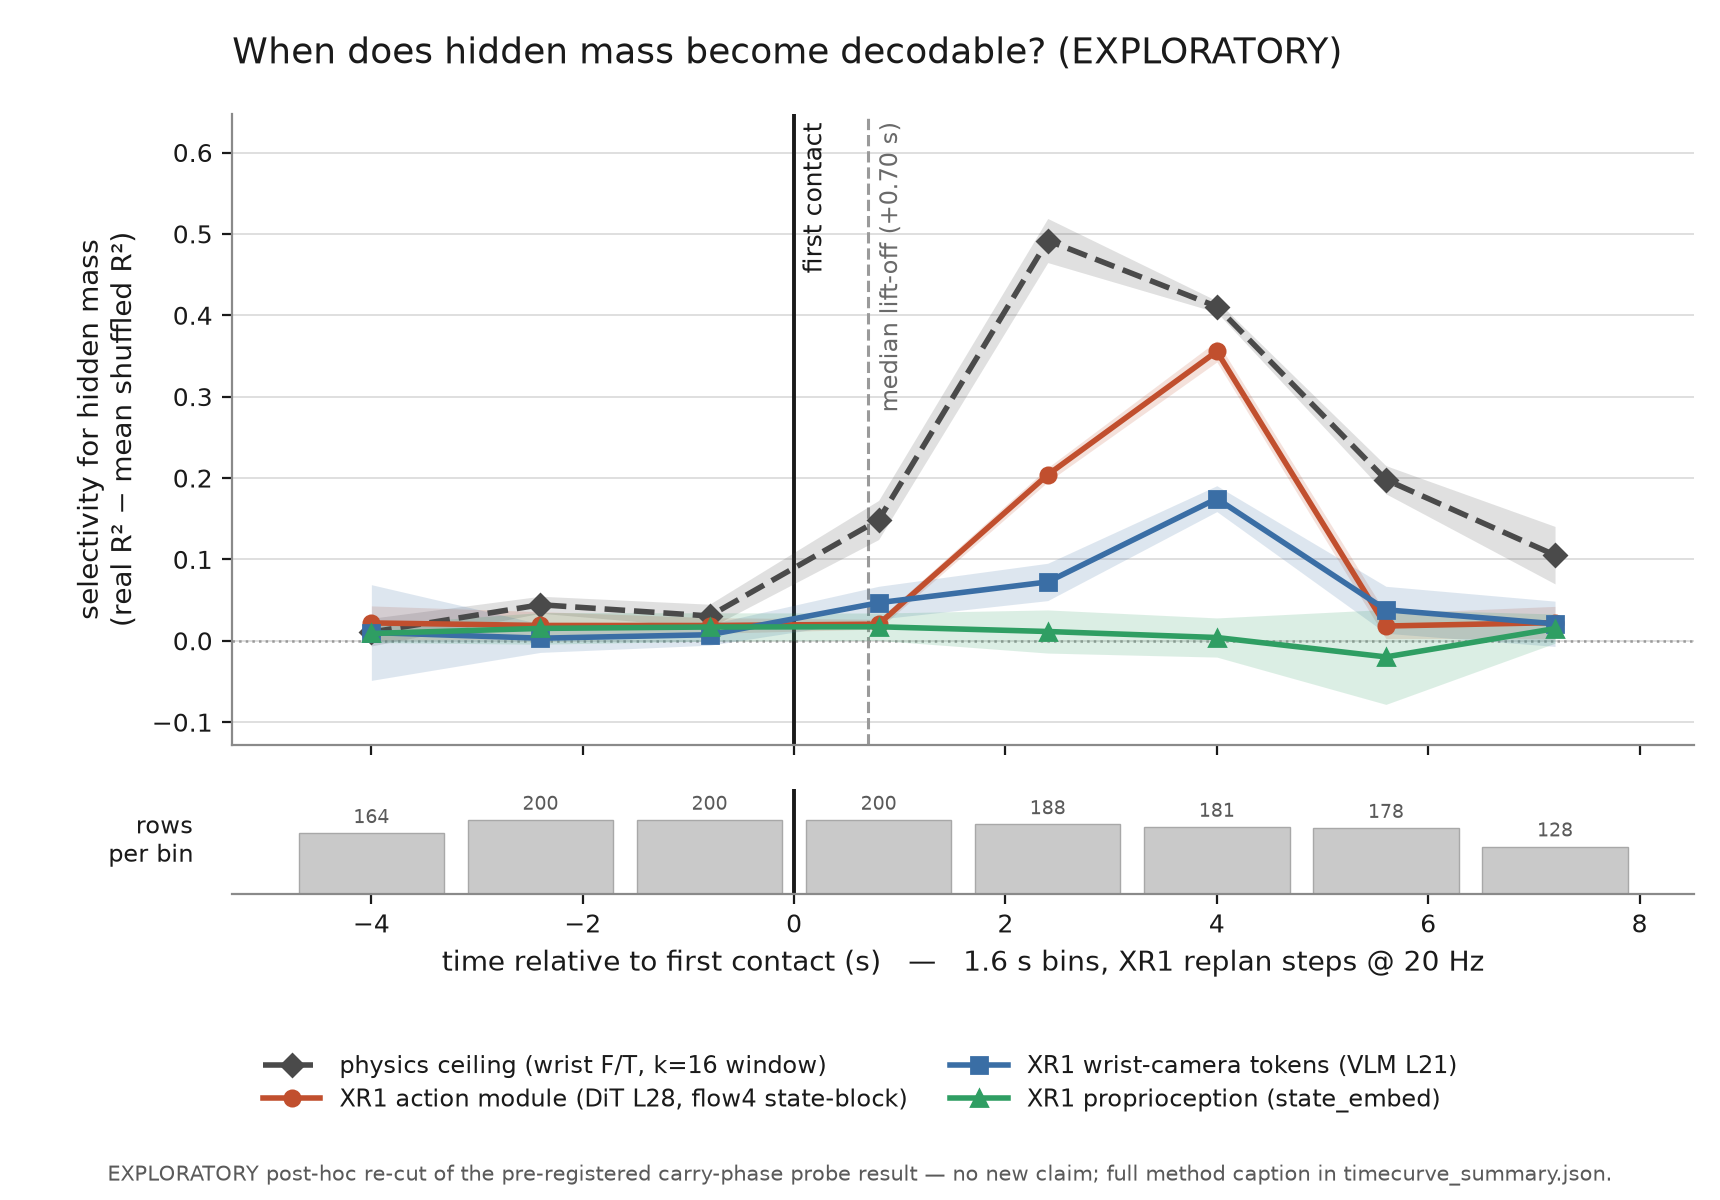
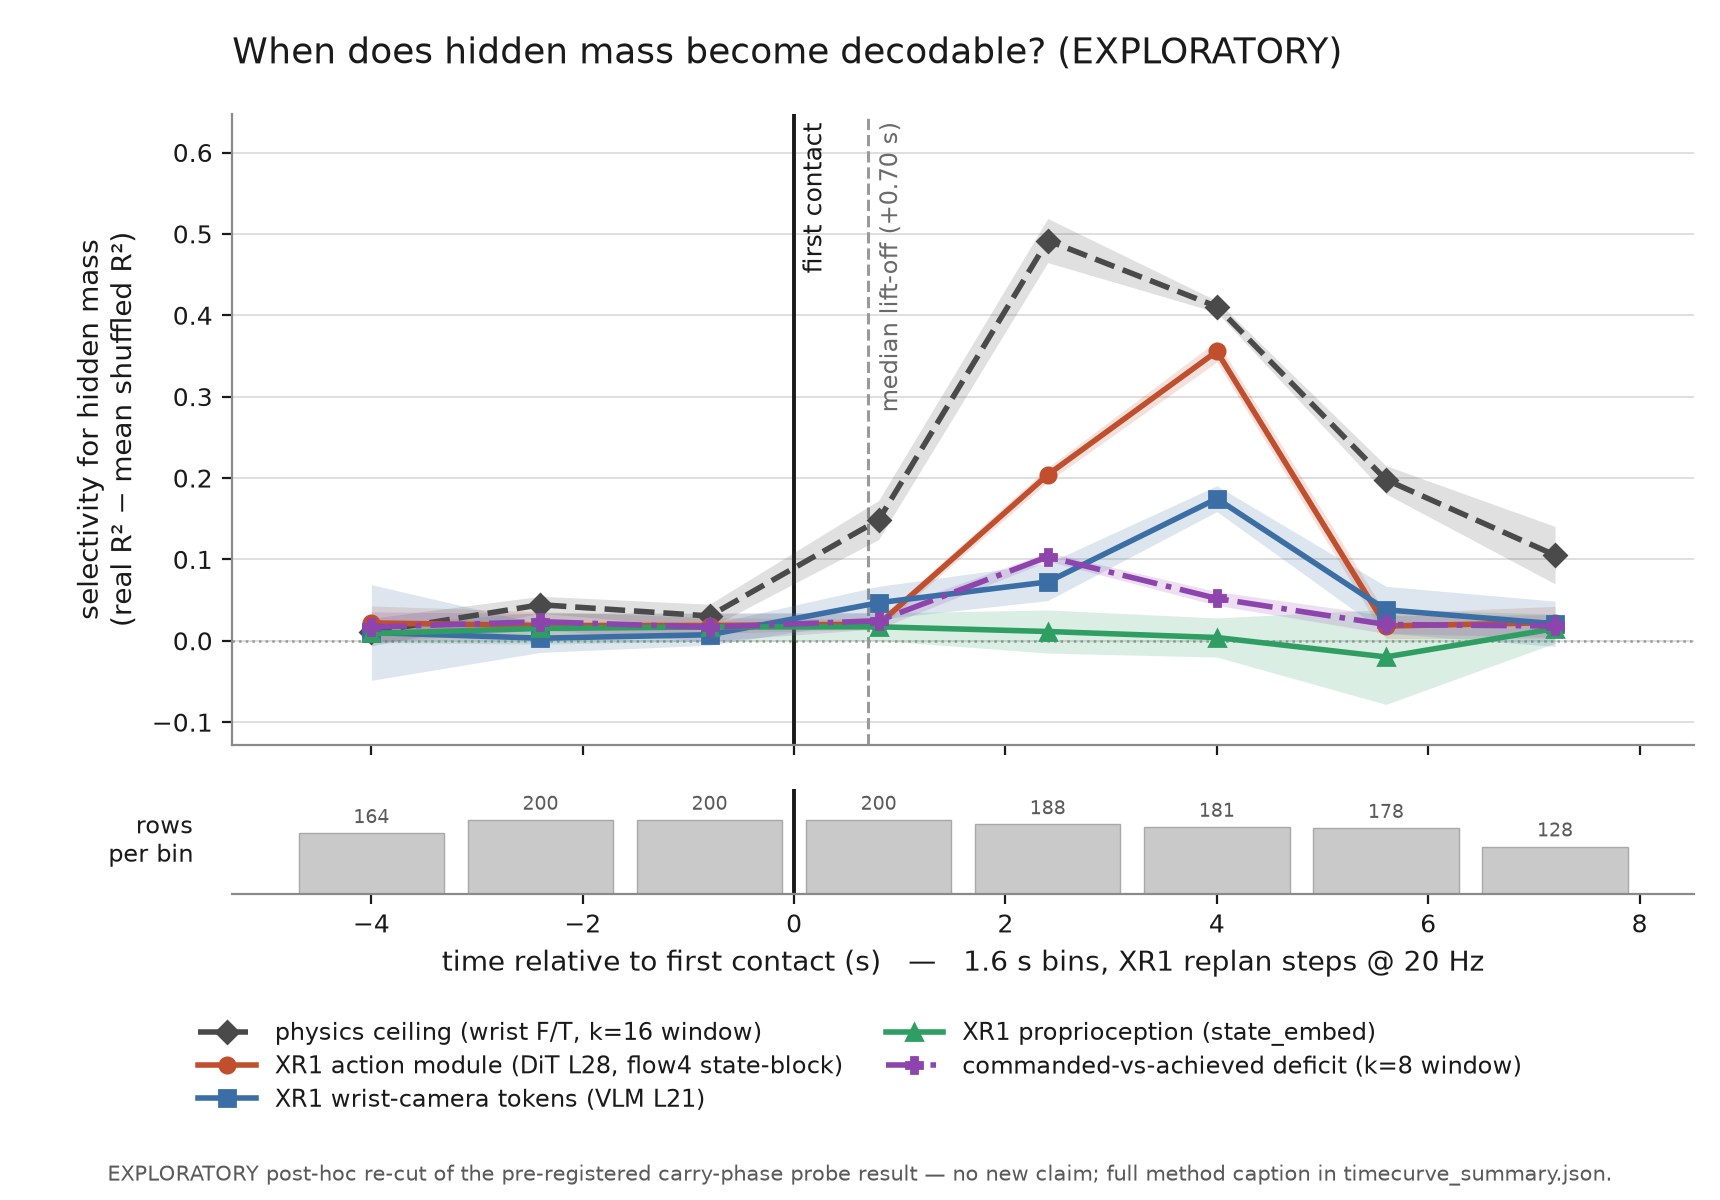
EXPLORATORY time curve: add commanded-vs-achieved deficit as a fifth line
Adds the deficit certificate's exact feature builder
(certificates.build_features("deficit", ds): commanded_delta[6] +
achieved_eef_delta[6], trailing window k=8 stride 1, imported not
re-implemented) as a fifth, strictly comparable line on the existing
contact-relative mass-decodability curve -- same bins, rows, folds and
shuffle protocol as the other four. Z-scored per cell like the physics
line, since it too mixes units (normalized OSC action vs metres).

The deficit certificate is aggregate-informative but FAILs per-step
(carry R^2 0.062); the new line answers whether that signal is
instantaneous or only visible under averaging. It spikes in the same
[+1.6, +3.2) s post-contact bin as the physics ceiling and DiT line
(real R^2 0.077, rank 0.72), just at lower amplitude -- not flat.

Headline unchanged: peak selectivity 0.227 (R^2 0.189) at DiT L28,
below the 0.3 certificate bar. Report addendum in
.superpowers/sdd/xr1-timecurve-report.md (untracked doc, per repo
convention).

Claude-Session: https://claude.ai/code/session_01CwbCcenew2BZcxLzuYpiqb

diff --git a/eval_robocasa365/mass_variation/analysis/time_curve.py b/eval_robocasa365/mass_variation/analysis/time_curve.py
@@ -24,7 +24,7 @@ shuffled-std band. Selectivity (not raw R²) is the y axis because the
 shuffled floor itself moves with bin size and with which seed groups land
 in which fold.
 
-Lines (4)
+Lines (5)
 ---------
 1. ``physics ceiling`` -- ridge on the raw wrist F/T window: exactly the
    ``raw_ft`` certificate's design matrix (``certificates.build_features``:
@@ -36,13 +36,29 @@ Lines (4)
 2. ``XR1 action module (DiT L28, flow4 state-block)`` -- the probe peak site.
 3. ``XR1 wrist-camera tokens (VLM L21)`` -- the vision site (the VLM peak).
 4. ``XR1 proprioception (state_embed)`` -- the null site.
+5. ``commanded-vs-achieved deficit`` -- ridge on exactly the ``deficit``
+   certificate's design matrix (``certificates.build_features("deficit", d)``:
+   ``commanded_delta[6]`` + ``achieved_eef_delta[6]``, trailing window k=8,
+   stride 1, never crossing an episode boundary; the identical feature
+   builder imported from ``certificates.py``, not re-implemented). This
+   channel is the one the ``deficit`` certificate scores on the ``carry``
+   mask: aggregate-informative (episode-mean commanded-up effort rises +23%
+   for XR1 / +87% for pi0.5 from lightest to heaviest carton) but weak
+   per-step (certificate R^2 0.062, FAIL). Its time profile was unknown
+   before this curve: does it spike at contact like the physics ceiling, or
+   stay flat -- i.e. is the load signature instantaneous or only visible
+   under averaging? Added as a fifth, directly comparable line (same bins,
+   rows, folds, shuffle protocol as the other four) to answer that
+   descriptively; both outcomes are reportable and neither would change the
+   study headline.
 
-All four are scored on the SAME rows (the captured replan steps inside a
+All five are scored on the SAME rows (the captured replan steps inside a
 bin) with the SAME GroupKFold(5) fold partition (computed once per bin from
 the seed groups), so the lines are strictly comparable. The one deliberate
 preprocessing difference is the one each corpus already carries in the
-study: the physics features are globally z-scored inside the cell (mixed
-physical units -- Newtons, N·m, radians), exactly as
+study: the physics and deficit features are globally z-scored inside the
+cell (mixed physical units -- Newtons, N·m, radians for physics; normalized
+action units vs metres for deficit), exactly as
 ``certificates.certificate_cell`` does, while activations are not
 (homogeneous units, matching ``run_probes_xr1``).
 
@@ -56,7 +72,7 @@ A bin is RETAINED only if it holds >= ``MIN_ROWS`` (120) rows AND
 >= ``MIN_EPISODE_GROUPS`` (15) distinct episodes; otherwise it is dropped
 and recorded as dropped (``retained=False`` with a ``drop_reason``) rather
 than scored on a handful of episodes. The rule was fixed before any curve
-was computed and is applied identically to all four lines.
+was computed and is applied identically to all five lines.
 
 Outputs: ``<out-dir>/timecurve.parquet`` (one row per site x bin, including
 dropped bins), ``<out-dir>/fig_mass_vs_time.png``,
@@ -116,18 +132,25 @@ HEADLINE_NOT_UPGRADED = (
     "noisier estimate on ~5x fewer rows, not a better result."
 )
 
-# (label, block, layer, position) -- block "raw_ft" is the physics reference.
+# (label, block, layer, position) -- block "raw_ft" is the physics reference,
+# block "deficit" is the commanded-vs-achieved deficit reference (also a
+# sensor/action-side channel, not a model site).
 SITES = (
     ("physics ceiling (wrist F/T, k=16 window)", "raw_ft", -1, "ee_force+ee_torque+derived"),
     ("XR1 action module (DiT L28, flow4 state-block)", "dit", 28, "flow4:state_tokens_mean"),
     ("XR1 wrist-camera tokens (VLM L21)", "vlm", 21,
      "image_tokens_mean:video.robot0_eye_in_hand"),
     ("XR1 proprioception (state_embed)", "state_embed", -1, "state_tokens_flat"),
+    ("commanded-vs-achieved deficit (k=8 window)", "deficit", -1,
+     "commanded_delta+achieved_eef_delta"),
 )
 
 # CVD-checked on a light surface; per-series markers are the redundant
 # encoding. The physics reference is neutral grey + dashed so it never reads
-# as one of the three model sites.
+# as one of the three model sites. The four original entries are UNCHANGED
+# from the published version; the deficit line below is the one addition
+# (distinct purple + filled-plus marker + dash-dot, so it never reads as
+# any of the four existing lines).
 SITE_STYLE = {
     "physics ceiling (wrist F/T, k=16 window)":
         {"color": "#4a4a4a", "marker": "D", "ls": "--"},
@@ -137,6 +160,8 @@ SITE_STYLE = {
         {"color": "#3a6ea5", "marker": "s", "ls": "-"},
     "XR1 proprioception (state_embed)":
         {"color": "#2f9e63", "marker": "^", "ls": "-"},
+    "commanded-vs-achieved deficit (k=8 window)":
+        {"color": "#8e44ad", "marker": "P", "ls": "-."},
 }
 
 DEFAULT_ACTS_ROOT = "output/mass_variation/activations/xr1"
@@ -236,16 +261,20 @@ def bin_drop_reason(n: int, n_episodes: int,
 def site_matrices(ds: dict, acts: dict, idx: np.ndarray) -> dict[str, np.ndarray]:
     """``{site label: X (M, D)}`` at the captured (joined) rows.
 
-    The physics matrix is built on the FULL per-step corpus first (its k=16
-    trailing window must see the un-subsampled history, exactly as the
-    ``raw_ft`` certificate does) and only then restricted to the captured
-    rows -- the plan's "same rows" requirement, without corrupting the
-    window."""
+    The physics and deficit matrices are built on the FULL per-step corpus
+    first (their trailing windows -- k=16 and k=8 respectively -- must see
+    the un-subsampled history, exactly as ``certificates.build_features``
+    does) and only then restricted to the captured rows -- the plan's "same
+    rows" requirement, without corrupting the window. Both are the identical
+    ``certificates.build_features`` builder, imported not re-implemented."""
     raw_ft_full = certificates.build_features("raw_ft", ds)
+    deficit_full = certificates.build_features("deficit", ds)
     out: dict[str, np.ndarray] = {}
     for label, block, layer, position in SITES:
         if block == "raw_ft":
             out[label] = raw_ft_full[idx].astype(np.float32)
+        elif block == "deficit":
+            out[label] = deficit_full[idx].astype(np.float32)
         elif block == "dit":
             li = list(acts["dit_layer_ids"]).index(layer)
             fi, bi = divmod(_dit_position_index(position), 2)
@@ -276,7 +305,7 @@ def _dit_position_index(position: str) -> int:
 
 def _zscore(X: np.ndarray) -> np.ndarray:
     """``certificates.certificate_cell``'s label-free feature standardisation
-    (mixed physical units); applied to the physics line only."""
+    (mixed physical units); applied to the physics and deficit lines only."""
     X = np.asarray(X, dtype=np.float32)
     sd = X.std(axis=0)
     return (X - X.mean(axis=0)) / np.where(sd == 0, 1.0, sd)
@@ -292,7 +321,7 @@ def run_time_curve(ds: dict, acts: dict, idx: np.ndarray, bins, seed: int = SEED
     """One probe cell per (site, bin) on the captured rows.
 
     Fold partition, shuffle groups and row set are computed ONCE per bin and
-    shared by all four sites, so the four curves differ only in features."""
+    shared by all five sites, so the five curves differ only in features."""
     episode_id = np.asarray(acts["episode_id"])
     y = np.asarray(ds["mass_log_c"], dtype=np.float64)[idx]
     cv_groups = np.asarray(ds["seed"])[idx]
@@ -344,7 +373,7 @@ def run_time_curve(ds: dict, acts: dict, idx: np.ndarray, bins, seed: int = SEED
                 }
             else:
                 X = X_by_site[label][sel]
-                if block == "raw_ft":
+                if block in ("raw_ft", "deficit"):
                     X = _zscore(X)
                 factors = probe_core._fold_factors(X, cv_groups[sel], splits=splits)
                 cell = _cell_from_factors(
@@ -549,7 +578,7 @@ def precontact_reading(df: pd.DataFrame) -> str:
         f"{float(worst['selectivity']):+.3f} "
         f"({worst['site']}, [{float(worst['bin_lo_s']):+.1f},"
         f"{float(worst['bin_hi_s']):+.1f}) s), but the largest REAL pooled "
-        f"held-out R² over all four lines and all pre-contact bins is only "
+        f"held-out R² over all five lines and all pre-contact bins is only "
         f"{max_real:+.4f} — i.e. no line predicts mass better than the "
         f"training-fold mean before contact. Those small positive "
         f"selectivities come from the shuffled control scoring NEGATIVE "
@@ -572,7 +601,7 @@ def figure_caption(df: pd.DataFrame, liftoff_s: float | None) -> str:
         f"EXPLORATORY post-hoc time resolution of the pre-registered carry-phase probe result — no new claim, "
         f"same rows/targets/discipline at finer time grain. Selectivity = real pooled held-out R² minus mean shuffled R² "
         f"(5 group-coherent shuffles, each with its own alpha search); band = ±1 shuffled std. GroupKFold(5) by SEED, "
-        f"shuffles group-coherent by EPISODE; identical rows and folds for all four lines. Bins 1.6 s (32 steps @20 Hz), "
+        f"shuffles group-coherent by EPISODE; identical rows and folds for all five lines. Bins 1.6 s (32 steps @20 Hz), "
         f"span −6.4..+9.6 s, retained only if ≥{MIN_ROWS} rows and ≥{MIN_EPISODE_GROUPS} episodes ({kept} retained; dropped: {drop_txt}). "
         f"Median lift-off {('+%.2f s' % liftoff_s) if liftoff_s is not None else 'n/a'}. "
         f"Headline unchanged: peak carry-phase selectivity 0.227 (R² 0.189) at DiT L28, below the 0.3 bar."
@@ -729,6 +758,15 @@ def main(argv=None) -> int:
             f"window k={certificates.K_RAW_FT} stride 1, z-scored per cell "
             "exactly as certificates.certificate_cell does (mixed physical "
             "units); activations are NOT z-scored (run_probes_xr1 convention)"),
+        "deficit_line": (
+            "certificates.build_features('deficit'): commanded_delta[6]+"
+            "achieved_eef_delta[6], per-episode trailing window "
+            f"k={certificates.K_DEFICIT} stride 1, z-scored per cell exactly "
+            "as certificates.certificate_cell does (mixed units: normalized "
+            "OSC action vs metres) -- the identical builder the 'deficit' "
+            "certificate uses (carry-mask R^2 0.062, FAIL); this line asks "
+            "whether that channel's time profile spikes at contact or stays "
+            "flat, not whether it passes the certificate gate"),
         "bin_rule": {
             "width_steps": args.bin_width_steps,
             "width_s": args.bin_width_steps / CONTROL_HZ,
@@ -742,7 +780,7 @@ def main(argv=None) -> int:
         },
         "protocol": {
             "cv": "GroupKFold(5) by SEED (identical fold partition for all "
-                  "four sites within a bin)",
+                  "five sites within a bin)",
             "shuffle": "group-coherent by EPISODE, per-draw alpha search",
             "alphas": probe_core.ALPHAS.tolist(),
             "n_splits": probe_core.N_SPLITS,
